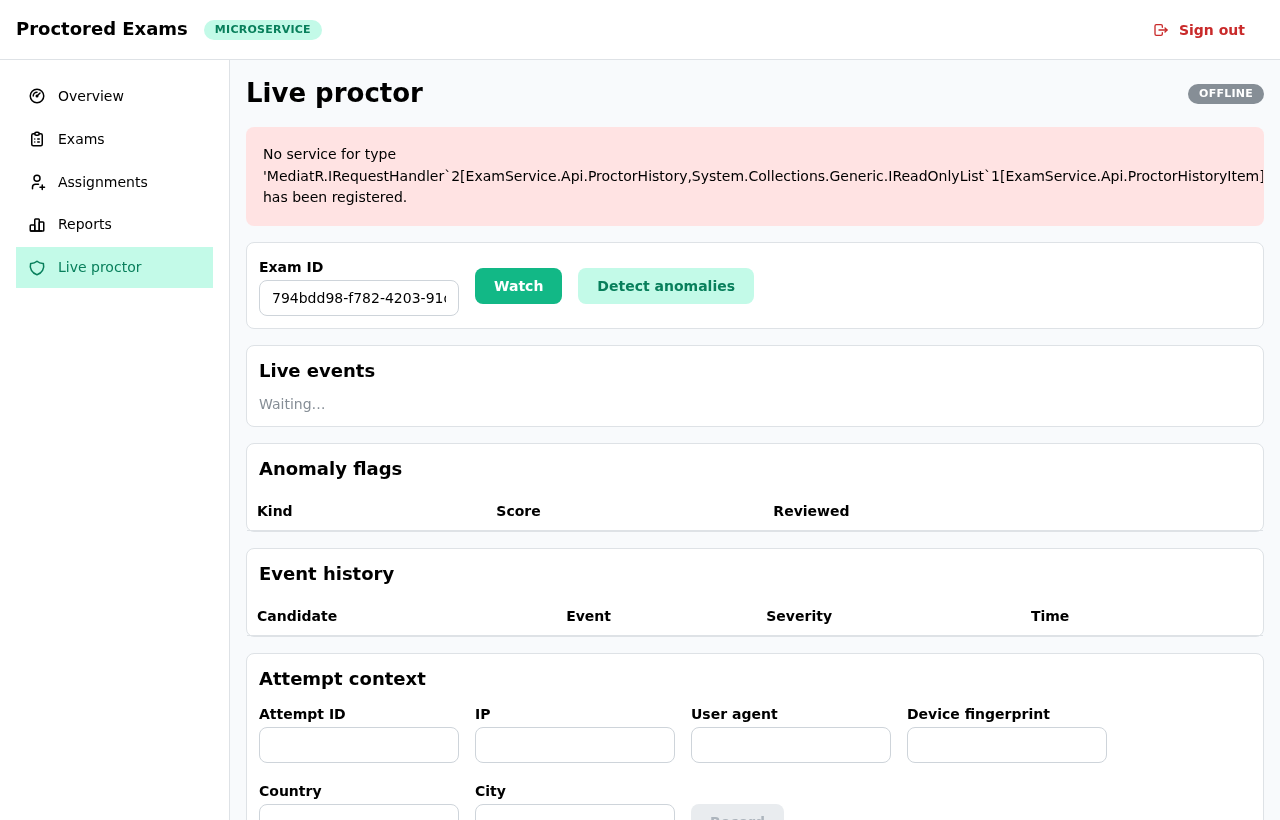
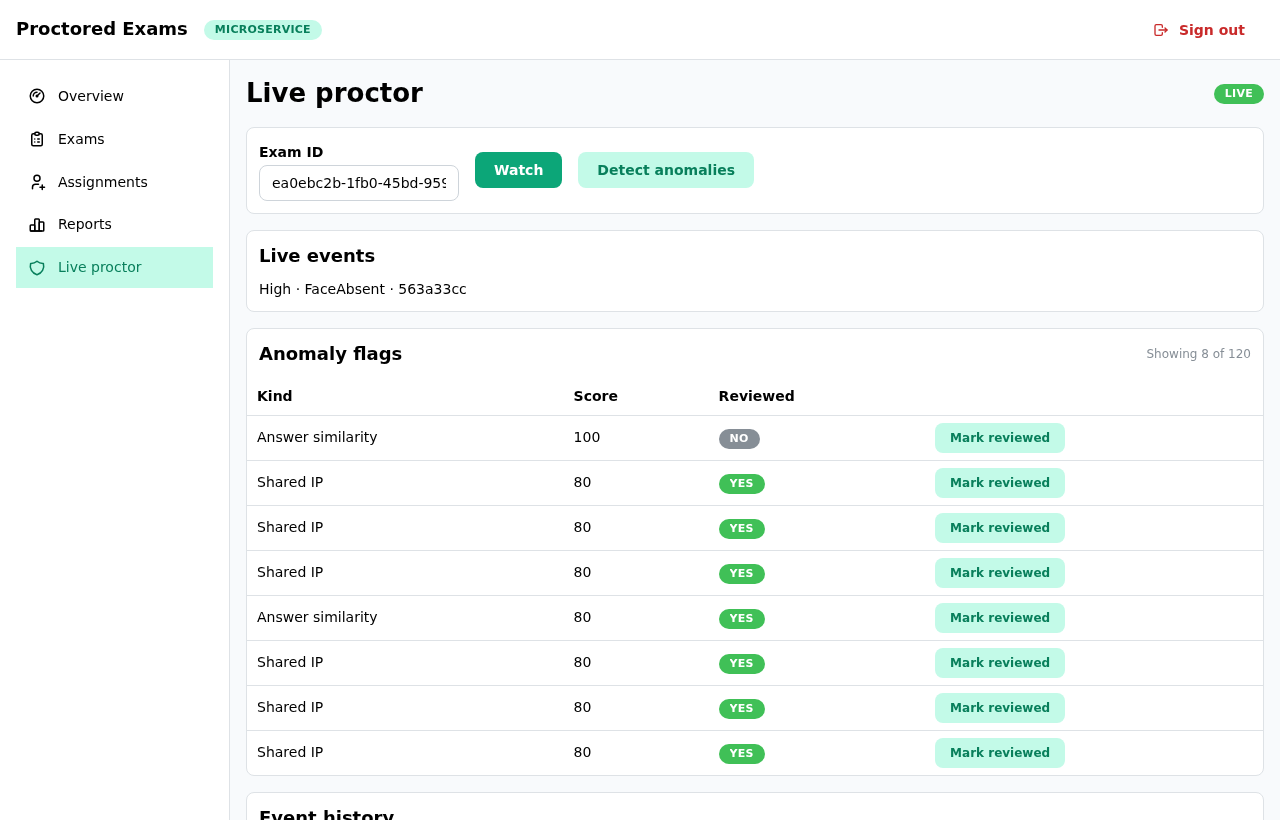
fix(web+api): repair proctor history, exam list and candidate answers
Moves ProctorHistory into the Application assembly so MediatR resolves its handler (fixes the proctor screenshot error). Adds GET /api/exams. Includes question type in attempt questions so MCQs render as radios. Proxies /hubs/ in nginx so proctor SignalR connects. Shows friendly flag/type labels and refreshes seeded screenshots.

diff --git a/web/src/components/ProctorPage.tsx b/web/src/components/ProctorPage.tsx
@@ -3,6 +3,7 @@ import { Stack, Title, TextInput, Button, Paper, Table, Badge, Group, Text, Aler
 import { HubConnectionBuilder } from '@microsoft/signalr';
 import { api, getToken, asArray } from '../api';
 
+const flagKinds=['Answer similarity','Shared device','Shared IP','Geo anomaly','Kiosk required'];
 export function ProctorPage(){
   const [examId,setExamId]=useState(''),[flags,setFlags]=useState<any[]>([]),[events,setEvents]=useState<any[]>([]),[evidence,setEvidence]=useState<any[]>([]);
   const [live,setLive]=useState<any[]>([]),[status,setStatus]=useState('idle'),[err,setErr]=useState(''),[notice,setNotice]=useState('');
@@ -21,7 +22,7 @@ export function ProctorPage(){
     {notice&&<Alert color="green">{notice}</Alert>}
     <Paper withBorder p="sm"><Group><TextInput label="Exam ID" value={examId} onChange={e=>setExamId(e.currentTarget.value)}/><Button onClick={()=>{loadFlags();loadEvents();connect();}}>Watch</Button><Button variant="light" onClick={detect}>Detect anomalies</Button></Group></Paper>
     <Paper withBorder p="sm"><Title order={4} mb="xs">Live events</Title>{live.length===0?<Text c="dimmed" size="sm">Waiting…</Text>:live.map((e:any,i)=><Text key={i} size="sm">{e.severity} · {e.type} · {e.attemptId?.slice(0,8)}</Text>)}</Paper>
-    <Paper withBorder><Title order={4} p="sm">Anomaly flags</Title><Table><Table.Thead><Table.Tr><Table.Th>Kind</Table.Th><Table.Th>Score</Table.Th><Table.Th>Reviewed</Table.Th><Table.Th/></Table.Tr></Table.Thead><Table.Tbody>{flags.map(f=><Table.Tr key={f.id}><Table.Td>{f.kind}</Table.Td><Table.Td>{f.score}</Table.Td><Table.Td><Badge color={f.reviewed?'green':'gray'}>{f.reviewed?'Yes':'No'}</Badge></Table.Td><Table.Td><Button size="xs" variant="light" onClick={()=>api(`/api/proctor/flags/${f.id}/review?reviewed=true`,{method:'POST'}).then(loadFlags)}>Mark reviewed</Button></Table.Td></Table.Tr>)}</Table.Tbody></Table></Paper>
+    <Paper withBorder><Group justify="space-between" p="sm"><Title order={4}>Anomaly flags</Title><Text size="xs" c="dimmed">Showing {Math.min(flags.length, 8)} of {flags.length}</Text></Group><Table><Table.Thead><Table.Tr><Table.Th>Kind</Table.Th><Table.Th>Score</Table.Th><Table.Th>Reviewed</Table.Th><Table.Th/></Table.Tr></Table.Thead><Table.Tbody>{flags.slice(0,8).map(f=><Table.Tr key={f.id}><Table.Td>{flagKinds[f.kind] ?? f.kind}</Table.Td><Table.Td>{f.score}</Table.Td><Table.Td><Badge color={f.reviewed?'green':'gray'}>{f.reviewed?'Yes':'No'}</Badge></Table.Td><Table.Td><Button size="xs" variant="light" onClick={()=>api(`/api/proctor/flags/${f.id}/review?reviewed=true`,{method:'POST'}).then(loadFlags)}>Mark reviewed</Button></Table.Td></Table.Tr>)}</Table.Tbody></Table></Paper>
     <Paper withBorder><Title order={4} p="sm">Event history</Title><Table><Table.Thead><Table.Tr><Table.Th>Candidate</Table.Th><Table.Th>Event</Table.Th><Table.Th>Severity</Table.Th><Table.Th>Time</Table.Th><Table.Th/></Table.Tr></Table.Thead><Table.Tbody>{events.slice(0,60).map((e:any,i)=><Table.Tr key={i}><Table.Td>{e.candidateName}</Table.Td><Table.Td>{e.type}</Table.Td><Table.Td>{e.severity}</Table.Td><Table.Td>{new Date(e.at).toLocaleString()}</Table.Td><Table.Td><Button size="xs" variant="subtle" onClick={()=>loadEvidence(e.attemptId)}>Evidence</Button></Table.Td></Table.Tr>)}</Table.Tbody></Table></Paper>
     <Paper withBorder p="sm"><Title order={4} mb="xs">Attempt context</Title>
       <Group align="flex-end" mb="sm" wrap="wrap">

diff --git a/web/src/components/CandidatePage.tsx b/web/src/components/CandidatePage.tsx
@@ -2,6 +2,7 @@ import { useState } from 'react';
 import { Stack, Title, TextInput, Button, Paper, Text, Radio, Textarea, Group, Badge, Alert, Progress } from '@mantine/core';
 import { api, asArray, getToken } from '../api';
 
+const typeNames=['Single choice','Multiple choice','True / false','Short answer','Essay','Numeric','Coding'];
 export function CandidatePage(){
   const [token,setToken]=useState(getToken()),[examId,setExamId]=useState(''),[attemptToken,setAttemptToken]=useState(''),[assignmentId,setAssignmentId]=useState('');
   const [exam,setExam]=useState<any>(null),[attempt,setAttempt]=useState(''),[questions,setQuestions]=useState<any[]>([]),[answers,setAnswers]=useState<Record<string,string>>({});
@@ -51,10 +52,11 @@ export function CandidatePage(){
       <Group><Button onClick={load}>Load exam</Button>{exam&&!attempt&&<Button onClick={begin}>Start attempt</Button>}{attempt&&<Button color="green" onClick={submit}>Submit exam</Button>}</Group>
     </Stack></Paper>
     {exam&&<Paper withBorder p="md"><Group justify="space-between"><Title order={3}>{exam.title}</Title><Badge color="teal">{exam.durationMinutes} min</Badge></Group><Text c="dimmed" mb="md">{exam.instructions}</Text>
-      {questions.map((q,i)=><Paper key={q.id} withBorder p="sm" mb="sm">
-        <Text fw={600}>{i+1}. {q.text}</Text><Text size="xs" c="dimmed">{q.marks} marks · {q.type}</Text>
-        {q.type==='SingleChoice'||q.type==='MultipleChoice' ? (()=>{try{const opts=JSON.parse(q.optionsJson??'[]');return <Radio.Group value={answers[q.id]??''} onChange={v=>save(q.id,v)} mt="sm">{opts.map((o:any)=><Radio key={o.id} value={o.id} label={o.text}/>)}</Radio.Group>;}catch{return null;}})()
-        :<Textarea mt="sm" placeholder="Your answer" value={answers[q.id]??''} onChange={e=>save(q.id,e.currentTarget.value)} autosize minRows={3}/>}
+      {questions.map((q,i)=><Paper key={q.questionId ?? q.id} withBorder p="sm" mb="sm">
+        <Text fw={600}>{i+1}. {q.text}</Text><Text size="xs" c="dimmed">{q.marks} marks · {typeNames[q.type] ?? q.type}</Text>
+        {q.type===2 ? <Radio.Group value={answers[q.questionId ?? q.id]??''} onChange={v=>save(q.questionId ?? q.id,v)} mt="sm"><Radio value="true" label="True"/><Radio value="false" label="False"/></Radio.Group>
+        :q.type===0||q.type===1 ? (()=>{try{const opts=JSON.parse(q.optionsJson??'[]');return <Radio.Group value={answers[q.questionId ?? q.id]??''} onChange={v=>save(q.questionId ?? q.id,v)} mt="sm">{opts.map((o:any)=><Radio key={o.id} value={o.id} label={o.text}/>)}</Radio.Group>;}catch{return null;}})()
+        :<Textarea mt="sm" placeholder="Your answer" value={answers[q.questionId ?? q.id]??''} onChange={e=>save(q.questionId ?? q.id,e.currentTarget.value)} autosize minRows={3}/>}
       </Paper>)}
     </Paper>}
     {attempt&&<Paper withBorder p="md"><Group justify="space-between"><Title order={4}>Proctoring signals & evidence</Title><Badge color="teal" variant="light">Attempt {attempt.slice(0,8)}…</Badge></Group>

diff --git a/src/ExamService.Api/Controllers.cs b/src/ExamService.Api/Controllers.cs
@@ -18,6 +18,10 @@ public sealed class ExamsController(IExamService exams) : ControllerBase
     public async Task<IActionResult> Create([FromBody] CreateExamRequest request, CancellationToken ct)
         => Ok(new { id = await exams.CreateAsync(request, ct) });
 
+    [HttpGet]
+    public async Task<IActionResult> List(CancellationToken ct)
+        => Ok(await exams.ListAsync(ct));
+
     [HttpPost("{id:guid}/publish")]
     public async Task<IActionResult> Publish([FromRoute] Guid id, CancellationToken ct)
         => Ok(new { published = await exams.PublishAsync(id, ct) });
@@ -221,26 +225,5 @@ public sealed class ProctorController(IAnomalyService anomalies, MediatR.ISender
     {
         var events = await sender.Send(new ProctorHistory(examId), ct);
         return Ok(events);
-    }
-}
-
-public sealed record ProctorHistory(Guid ExamId) : MediatR.IRequest<IReadOnlyList<ProctorHistoryItem>>;
-
-public sealed record ProctorHistoryItem(Guid AttemptId, string CandidateName, string Type,
-    string Severity, DateTimeOffset At, string? Detail);
-
-public sealed class ProctorHistoryHandler(Infrastructure.Persistence.AppDbContext db)
-    : MediatR.IRequestHandler<ProctorHistory, IReadOnlyList<ProctorHistoryItem>>
-{
-    public async Task<IReadOnlyList<ProctorHistoryItem>> Handle(ProctorHistory request, CancellationToken ct)
-    {
-        IQueryable<ProctorHistoryItem> query =
-            from e in db.ProctorEvents
-            join a in db.Attempts on e.AttemptId equals a.Id
-            where a.ExamId == request.ExamId
-            orderby e.OccurredAt descending
-            select new ProctorHistoryItem(a.Id, a.CandidateName, e.EventType.ToString(),
-                e.Severity.ToString(), e.OccurredAt, e.DetailJson);
-        return await Microsoft.EntityFrameworkCore.EntityFrameworkQueryableExtensions.ToListAsync(query.Take(500), ct);
     }
 }

diff --git a/src/ExamService.Application/Features/Sessions/ProctorHistory.cs b/src/ExamService.Application/Features/Sessions/ProctorHistory.cs
@@ -1,0 +1,28 @@
+using ExamService.Application.Common;
+using ExamService.Domain.Entities;
+using MediatR;
+using Microsoft.EntityFrameworkCore;
+
+namespace ExamService.Application.Features.Sessions;
+
+/// <summary>Chronological proctor events for every attempt of an exam.</summary>
+public sealed record ProctorHistory(Guid ExamId) : IRequest<IReadOnlyList<ProctorHistoryItem>>;
+
+public sealed record ProctorHistoryItem(Guid AttemptId, string CandidateName, string Type,
+    string Severity, DateTimeOffset At, string? Detail);
+
+public sealed class ProctorHistoryHandler(IAppDbContext db)
+    : IRequestHandler<ProctorHistory, IReadOnlyList<ProctorHistoryItem>>
+{
+    public async Task<IReadOnlyList<ProctorHistoryItem>> Handle(ProctorHistory request, CancellationToken ct)
+    {
+        IQueryable<ProctorHistoryItem> query =
+            from e in db.Set<ProctorEvent>()
+            join a in db.Set<ExamAttempt>() on e.AttemptId equals a.Id
+            where a.ExamId == request.ExamId
+            orderby e.OccurredAt descending
+            select new ProctorHistoryItem(a.Id, a.CandidateName, e.EventType.ToString(),
+                e.Severity.ToString(), e.OccurredAt, e.DetailJson);
+        return await query.Take(500).ToListAsync(ct);
+    }
+}

diff --git a/src/ExamService.Application/Features/Sessions/GetAttemptQuestions.cs b/src/ExamService.Application/Features/Sessions/GetAttemptQuestions.cs
@@ -8,7 +8,7 @@ namespace ExamService.Application.Features.Sessions;
 
 public sealed record GetAttemptQuestions(Guid AttemptId) : IRequest<IReadOnlyList<AttemptQuestionDto>>, IRequiresTenant;
 
-public sealed record AttemptQuestionDto(Guid QuestionId, string Text, string? OptionsJson, decimal Marks, int Order);
+public sealed record AttemptQuestionDto(Guid QuestionId, int Type, string Text, string? OptionsJson, decimal Marks, int Order);
 
 public sealed class GetAttemptQuestionsHandler(IAppDbContext db, ITenantContext current)
     : IRequestHandler<GetAttemptQuestions, IReadOnlyList<AttemptQuestionDto>>
@@ -20,7 +20,7 @@ public sealed class GetAttemptQuestionsHandler(IAppDbContext db, ITenantContext 
                   join q in db.Set<Question>() on link.QuestionId equals q.Id
                   where link.AttemptId == request.AttemptId
                   orderby link.Order
-                  select new AttemptQuestionDto(q.Id, q.Text,
+                  select new AttemptQuestionDto(q.Id, (int)q.Type, q.Text,
                       link.ShuffledOptionsJson ?? q.OptionsJson, q.Marks, link.Order)).ToListAsync(ct);
     }
 }

diff --git a/src/ExamService.Application/Services/Services.cs b/src/ExamService.Application/Services/Services.cs
@@ -13,6 +13,7 @@ namespace ExamService.Application.Features;
 public interface IExamService
 {
     Task<Guid> CreateAsync(CreateExamRequest request, CancellationToken ct = default);
+    Task<IReadOnlyList<ExamSummaryDto>> ListAsync(CancellationToken ct = default);
     Task<bool> PublishAsync(Guid examId, CancellationToken ct = default);
     Task<Guid> AddQuestionAsync(Guid examId, AddQuestionRequest request, CancellationToken ct = default);
     Task<ExamResponse?> GetAsync(Guid examId, CancellationToken ct = default);
@@ -40,6 +41,8 @@ public interface IReportService
 
 public sealed class ExamService(ISender sender) : IExamService
 {
+    public Task<IReadOnlyList<ExamSummaryDto>> ListAsync(CancellationToken ct)
+        => sender.Send(new ListExams(), ct);
     public Task<Guid> CreateAsync(CreateExamRequest r, CancellationToken ct)
         => sender.Send(new CreateExam(r.Title, r.Description, r.StartUtc, r.EndUtc, r.DurationMinutes,
             r.TotalMarks, r.RequireCamera, r.RequireMicrophone, r.LockTab, r.DisableCopyPaste,

diff --git a/src/ExamService.Application/Features/Exams/ManageExam.cs b/src/ExamService.Application/Features/Exams/ManageExam.cs
@@ -108,6 +108,18 @@ public sealed class GetExamHandler(IAppDbContext db) : IRequestHandler<GetExam, 
     }
 }
 
+public sealed record ListExams : IRequest<IReadOnlyList<ExamSummaryDto>>;
+
+public sealed record ExamSummaryDto(Guid Id, string Title, int Status, int DurationMinutes, decimal TotalMarks);
+
+public sealed class ListExamsHandler(IAppDbContext db) : IRequestHandler<ListExams, IReadOnlyList<ExamSummaryDto>>
+{
+    public async Task<IReadOnlyList<ExamSummaryDto>> Handle(ListExams request, CancellationToken ct)
+        => await db.Set<Exam>().AsNoTracking().OrderByDescending(e => e.CreatedAt)
+            .Select(e => new ExamSummaryDto(e.Id, e.Title, (int)e.Status, e.DurationMinutes, e.TotalMarks))
+            .ToListAsync(ct);
+}
+
 public sealed record GetExamPublic(Guid ExamId) : IRequest<ExamPublicDto?>;
 
 public sealed record ExamPublicDto(Guid Id, string Title, string? Instructions,
